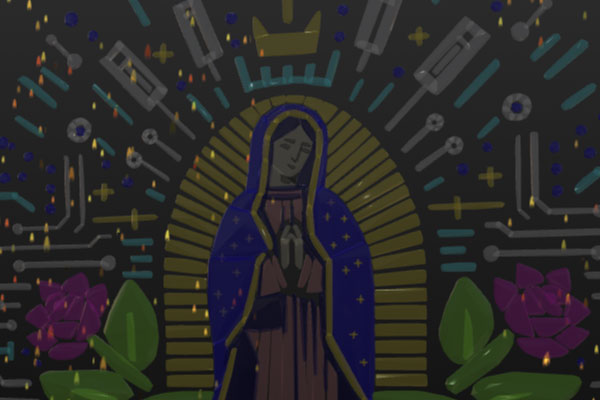
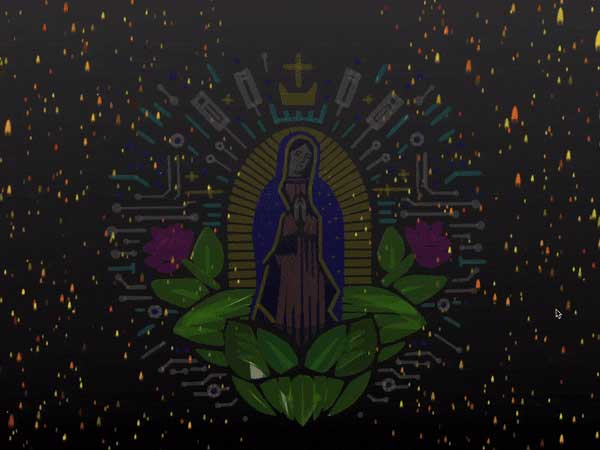
Updating project imagery

diff --git a/assets/js/projects.js b/assets/js/projects.js
@@ -84,3 +84,14 @@ document.addEventListener('DOMContentLoaded', () => {
     }
   });
 });
+
+// Load Images then Gifs
+window.addEventListener('load', function() {
+    document.querySelectorAll('.project-image img').forEach(img => {
+        const gifUrl = img.getAttribute('data-gif');
+
+        if (gifUrl) {
+            img.src = gifUrl;
+        }
+    });
+});
